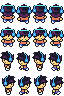
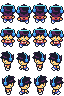
Hub: dress the player in a hoodie and restyled headphones, keeping his outline (#90)
Every frame keeps the original Go sprite's silhouette (FRLG's Gary) pixel
for pixel. Inside it: ear cups lit on the outside and shaded on the inside,
an orange hoodie with sleeves to the wrists, drawstrings, a ribbed hem and
the hood on his back.

diff --git a/src/ui/playerArt.ts b/src/ui/playerArt.ts
@@ -3,9 +3,11 @@
 // scripts/gen-ui-art.ts writes `playerSheetRows()` to
 // src/assets/images/player.png.
 //
-// The player is the original Go sprite (spiky black hair with purple
-// highlights, teal eyes) in cyan headphones, an orange tee, blue jeans and
-// white sneakers. The sheet is 4 frames across (stand, step, stand, other
+// The player keeps the original Go sprite's outline (FRLG's Gary): spiky
+// black hair with purple highlights and teal eyes, in cyan headphones whose
+// cups are lit on the outside, an orange hoodie (sleeves to the wrists,
+// drawstrings, a ribbed hem, the hood on his back), blue jeans and white
+// sneakers. The sheet is 4 frames across (stand, step, stand, other
 // step) and one row per facing direction, in the order of
 // `newPlayer().frameDirection` (src/arcade/entity.ts): up, down, left, right.
 // Each frame is 16x24, the player's collision box; the step frames sit 1 px
@@ -21,7 +23,7 @@ export const playerFrames = 4;
 /** One facing's frames, each a whole 16x24 frame: stand, step, other step. */
 type Facing = string[][];
 
-/** Facing up: the back of the head, the headphone band across the hair. */
+/** Facing up: the back of the head, the headphone band across the hair, the hood on his back. */
 export const up: Facing = [
   [
     "................",
@@ -33,16 +35,16 @@ export const up: Facing = [
     ".kckkkkkkkkkkck.",
     ".kBkppkkkkkkkBk.",
     ".kBkppkkkkkkkBk.",
-    "kBBBkppkkkkkBBBk",
-    "kBcBkpppppkkBcBk",
-    "kBBBkkkkkkkkBBBk",
+    "kcBBkppkkkkkBBck",
+    "kBBbkpppppkkbBBk",
+    "kbBbkkkkkkkkbBbk",
     ".kkkpkkkkkkpkkk.",
     "..kkpppkkpppkk..",
     "...kppppppppk...",
     "..kkkkppppkkkk..",
-    ".kykookkkkookyk.",
-    ".kyykooooookyyk.",
-    "..kkooooooookk..",
+    ".kokoorrrrookok.",
+    ".kyykookkookyyk.",
+    "..kkrrrrrrrrkk..",
     "...kbbkkkkbbk...",
     "...kwbbkkbbwk...",
     "...kwwk..kwwk...",
@@ -60,16 +62,16 @@ export const up: Facing = [
     ".kckkkkkkkkkkck.",
     ".kBkppkkkkkkkBk.",
     ".kBkppkkkkkkkBk.",
-    "kBBBkppkkkkkBBBk",
-    "kBcBkpppppkkBcBk",
-    "kBBBkkkkkkkkBBBk",
+    "kcBBkppkkkkkBBck",
+    "kBBbkpppppkkbBBk",
+    "kbBbkkkkkkkkbBbk",
     ".kkkpkkkkkkpkkk.",
     "..kkpppkkpppkk..",
     "...kppppppppkk..",
     "...kkkppppkkyk..",
-    "..kkookkkkookk..",
-    ".kyykoooooook...",
-    ".kyykoooooook...",
+    "..kkoorrrrookk..",
+    ".kookookkoook...",
+    ".kyykrrrrrrrk...",
     "..kkkbkkkkbbk...",
     "....kkkkkbbwk...",
     ".........kwwk...",
@@ -86,16 +88,16 @@ export const up: Facing = [
     ".kckkkkkkkkkkck.",
     ".kBkppkkkkkkkBk.",
     ".kBkppkkkkkkkBk.",
-    "kBBBkppkkkkkBBBk",
-    "kBcBkpppppkkBcBk",
-    "kBBBkkkkkkkkBBBk",
+    "kcBBkppkkkkkBBck",
+    "kBBbkpppppkkbBBk",
+    "kbBbkkkkkkkkbBbk",
     ".kkkpkkkkkkpkkk.",
     "..kkpppkkpppkk..",
     "...kppppppppkk..",
     "..kykkppppkkk...",
-    "..kkookkkkookk..",
-    "...koooooookyyk.",
-    "...koooooookyyk.",
+    "..kkoorrrrookk..",
+    "...koookkookork.",
+    "...krrrrrrrkyyk.",
     "...kbbkkkkbkkk..",
     "...kwbbkkkkk....",
     "...kwwk.........",
@@ -103,7 +105,7 @@ export const up: Facing = [
   ],
 ];
 
-/** Facing down: the face, both ear cups. */
+/** Facing down: the face, both ear cups, the hoodie's drawstrings. */
 export const down: Facing = [
   [
     "................",
@@ -115,16 +117,16 @@ export const down: Facing = [
     ".kckpppkkkkkkck.",
     ".kBkpppkkkkkkBk.",
     ".kBkppppkkkpkBk.",
-    "kBBBkpkppppkBBBk",
-    "kBcBkkkkkkkkBcBk",
-    "kBBBkkkykkykBBBk",
+    "kcBBkpkppppkBBck",
+    "kBBbkkkkkkkkbBBk",
+    "kbBbkkkykkykbBbk",
     ".kkkkyyykyyykkk.",
     "..kyyywyywyyyk..",
     "...kyytyytyyk...",
     "..kkkkyyyykkkk..",
-    ".kyykokkkkokyyk.",
-    ".kyykooooookyyk.",
-    "..kkooooooookk..",
+    ".kookorkkrokook.",
+    ".kyykowoowokyyk.",
+    "..kkrrrrrrrrkk..",
     "...kbbkkkkbbk...",
     "...kwbbkkbbwk...",
     "...kwwk..kwwk...",
@@ -142,16 +144,16 @@ export const down: Facing = [
     ".kckpppkkkkkkck.",
     ".kBkpppkkkkkkBk.",
     ".kBkppppkkkpkBk.",
-    "kBBBkpkppppkBBBk",
-    "kBcBkkkkkkkkBcBk",
-    "kBBBkkkykkykBBBk",
+    "kcBBkpkppppkBBck",
+    "kBBbkkkkkkkkbBBk",
+    "kbBbkkkykkykbBbk",
     ".kkkkyyykyyykkk.",
     "..kyyywyywyyyk..",
     ".kykyytyytyyk...",
-    ".kyykkyyyykk....",
-    "..kkkokkkkkkk...",
-    "....koooookyyk..",
-    "...kooooookyyk..",
+    ".kookkyyyykk....",
+    "..kkkorkkrokk...",
+    "....kowoowkork..",
+    "...krrrrrrkyyk..",
     "...kbbkkkkwkk...",
     "...kwbbkkkkk....",
     "...kwwk.........",
@@ -168,16 +170,16 @@ export const down: Facing = [
     ".kckpppkkkkkkck.",
     ".kBkpppkkkkkkBk.",
     ".kBkppppkkkpkBk.",
-    "kBBBkpkppppkBBBk",
-    "kBcBkkkkkkkkBcBk",
-    "kBBBkkkykkykBBBk",
+    "kcBBkpkppppkBBck",
+    "kBBbkkkkkkkkbBBk",
+    "kbBbkkkykkykbBbk",
     ".kkkkyyykyyykkk.",
     "..kyyywyywyyyk..",
     "...kyytyytyykyk.",
-    "....kkyyyykkyyk.",
-    "...kkkkkkkokkk..",
-    "..kyykoooook....",
-    "..kyykooooook...",
+    "....kkyyyykkork.",
+    "...kkkrkkrokkk..",
+    "..kookwoowok....",
+    "..kyykrrrrrrk...",
     "...kkwkkkkbbk...",
     "....kkkkkbbwk...",
     ".........kwwk...",
@@ -198,14 +200,14 @@ export const right: Facing = [
     "..kkkBkkkkkkkk..",
     "..kpkBkkkkkppkk.",
     "..kpkBkkkpppkkkk",
-    "..kkBBBkkkkkkkk.",
-    "..kkBcBkkkkkyk..",
-    "...kBBBkkyykyk..",
+    "..kkcBBkkkkkkkk.",
+    "..kkBBbkkkkkyk..",
+    "...kbBbkkyykyk..",
     "...kkkkkyywyyk..",
     "....kyyyyytyk...",
     ".....kyyyyyk....",
     ".....kkkkkkk....",
-    ".....kokkook....",
+    ".....koorowk....",
     ".....kkyykok....",
     ".....kkyykk.....",
     "......kkkwk.....",
@@ -225,14 +227,14 @@ export const right: Facing = [
     "..kkkBkkkkkkkk..",
     "..kpkBkkkkkppkk.",
     "..kpkBkkkpppkkkk",
-    "..kkBBBkkkkkkkk.",
-    "..kkBcBkkkkkyk..",
-    "...kBBBkkyykyk..",
+    "..kkcBBkkkkkkkk.",
+    "..kkBBbkkkkkyk..",
+    "...kbBbkkyykyk..",
     "...kkkkkyywyyk..",
     "....kyyyyytyk...",
     ".....kyyyyyk....",
     ".....kkkkkk.....",
-    ".....kookyyk....",
+    ".....kowkyyk....",
     "....kbookyykk...",
     "...kwbbbkkkwk...",
     "...kwwkkk.kk....",
@@ -251,14 +253,14 @@ export const right: Facing = [
     "..kkkBkkkkkkkk..",
     "..kpkBkkkkkppkk.",
     "..kpkBkkkpppkkkk",
-    "..kkBBBkkkkkkkk.",
-    "..kkBcBkkkkkyk..",
-    "...kBBBkkyykyk..",
+    "..kkcBBkkkkkkkk.",
+    "..kkBBbkkkkkyk..",
+    "...kbBbkkyykyk..",
     "...kkkkkyywyyk..",
     "....kyyyyytyk...",
     ".....kyyyyyk....",
     ".....kkkkkk.....",
-    "....kyykook.....",
+    "....kyykowk.....",
     "....kyykobbk....",
     "....kkkbbbwwk...",
     "....kwkkkwwk....",
